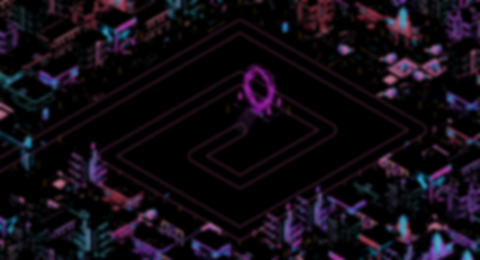
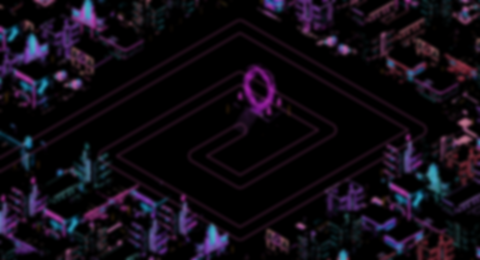
Equal tower bases, Rift Plaza border, boss stuns, steady tooltips, new wave options
- Every tower's base shows 24 board px wide (turret_scale per tower, sprite_scale for the Anvil,
  the beacon's size), with a matching shadow.
- Rift Plaza: the square's rim row is buildable and empty, so towers fit on both sides of the
  outer road; the city is only a border round the square.
- Rift Knight and Rift Warden no longer stun towers or the hero; only the wave 20 Rift Tyrant does.
- Tooltips survive the build bar rebuilding under the pointer (the ability tip while it recharges).
- Wave options: Hard adds one enemy buff or one hero/tower handicap for gold; Challenge adds both,
  for the same gold plus a free hero upgrade or +10% damage for every tower for the run.

Claude-Session: https://claude.ai/code/session_01LRUGfxLjEhmfE4XbmKEKYT

diff --git a/godot/assets/maps/map0_plaza/src/gen.py b/godot/assets/maps/map0_plaza/src/gen.py
@@ -44,8 +44,8 @@ path_field = [bf(p) for p in PB]
 portal_tiles = {(6, 7), (8, 7), (6, 8), (7, 8), (8, 8), (6, 9), (7, 9), (8, 9)}
 HERO = (5, 6)
 
-def playfield(u, v):
-    return 1 <= u <= N - 2 and 1 <= v <= N - 2
+def playfield(u, v):  # every tile of the square is a tower spot, so towers fit on both sides of the outer road
+    return 0 <= u <= N - 1 and 0 <= v <= N - 1
 def in_diamond(u, v):
     return 0 <= u <= N - 1 and 0 <= v <= N - 1
 
@@ -180,17 +180,6 @@ used = set(road_tiles) | arch_tiles
 for u in range(-1, 4):
     for v in range(-12, 0):
         used.add((u, v))          # the entry street stays open
-# the plaza's rim (tiles 0 and N-1): planters, lamps and flower beds, mirrored round the diamond
-ring = [(u, v) for u in range(N) for v in range(N) if in_diamond(u, v) and not playfield(u, v) and (u, v) not in used]
-for i, (u, v) in enumerate(sorted(ring)):
-    pos = (u + v) % 4
-    if pos == 0:
-        flat_tile(u, v)
-    elif pos == 2:
-        stand(u, v, STAND[(u * 3 + v) % 2])
-    else:
-        stand(u, v, STAND[2 + (u + 2 * v) % 3] if (u + v) % 8 == 1 else STAND[(u + v) % 2])
-    used.add((u, v))
 # outside the diamond: 2x2 blocks of buildings (with the odd little park), then single tiles of props
 cands = [(u, v) for u in range(-12, N + 12) for v in range(-12, N + 12)
          if not in_diamond(u, v) and on_board(u, v, 70) and (u, v) not in used]
@@ -226,10 +215,6 @@ for v in (-1, -3, -5, -7):
     for u in (0, 2):
         if on_board(u, v, 10):
             stand(u, v, ('lamp', 'neon') if v % 4 == 3 else ('palm_planter_b', 'palm'))
-# a few traffic lights by the road on the plaza rim
-for (u, v) in [(0, 13), (14, 13), (14, 1)]:
-    c = tb(u, v); put(rng.choice(group('traffic_light')), 'tlight', c + [0, 3], c[1] + 3)
-
 sprites.sort(key=lambda s: s['key'])
 
 # ---------- build mask: what's under a tower's foot (12 field units below where it stands) ----------

diff --git a/godot/assets/maps/map0_plaza/README.md b/godot/assets/maps/map0_plaza/README.md
@@ -5,8 +5,9 @@ square and spirals in to the rift portal in the middle. Same format as `map1_mia
 made by `src/gen.py` (`python3 src/gen.py .` from this folder, needs numpy and Pillow).
 
 ## Tower grid
-- The square is 15 x 15 diamond tiles (48 x 27.7 board px each). Each tile of the inner 13 x 13 that isn't road or
-  portal is one tower spot (88 of them). The road runs along tile rows, so towers line up with it.
+- The square is 15 x 15 diamond tiles (48 x 27.7 board px each). Every tile that isn't road or portal is one tower
+  spot, including the row outside the outer road, so towers fit on both sides of it. The road runs along tile rows,
+  so towers line up with it.
 - `layout.json` has a `snap` key: `origin`, `a` and `b` in field units. A tower's foot snaps to the nearest
   `origin + i*a + j*b` (`MapInfo.snap_lattice`, `Game.snap_cell`), and build mode outlines the free diamonds. Spots are
   37.9 field units apart, just over `Game.TOWER_GAP`.
@@ -17,6 +18,6 @@ made by `src/gen.py` (`python3 src/gen.py .` from this folder, needs numpy and P
 - `ground.png`: Coral Spiral's road (navy, pink neon edges, cyan dashes and arrows) and one peach diamond per tower
   spot, inside a pink curb; rose sidewalk outside. Painted at 768 x 416 and scaled 2x without smoothing.
 - `sprites`: all Ocean Drive's (`res://assets/maps/map1_miami/spr/`, nothing copied). Buildings stand on 2 x 2 tile
-  blocks outside the square, with the odd little park; flower beds, palms, lamps and signs fill the single tiles and
-  the square's rim. The portal and arch sit at the same offsets from the road as on Ocean Drive.
+  blocks outside the square, with the odd little park; flower beds, palms, lamps and signs fill the single tiles. Nothing
+  stands on the square itself, so the city is only a border. The portal and arch sit at the same offsets from the road as on Ocean Drive.
 - `glow.png`: the sprites' neon plus a faint road edge. `glints.png`: the road's edge lines with the distance along it.
